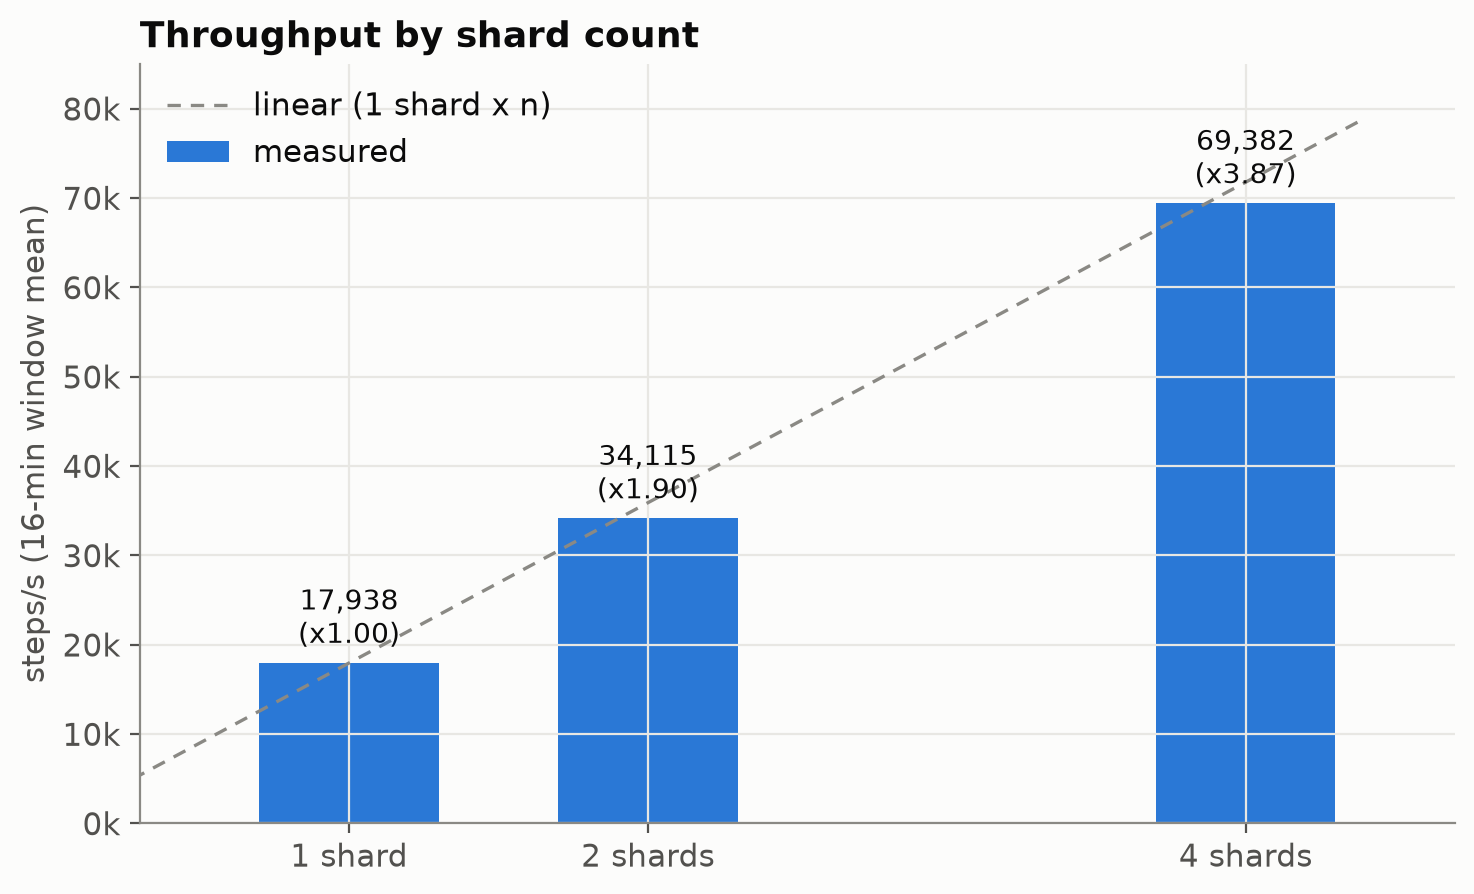
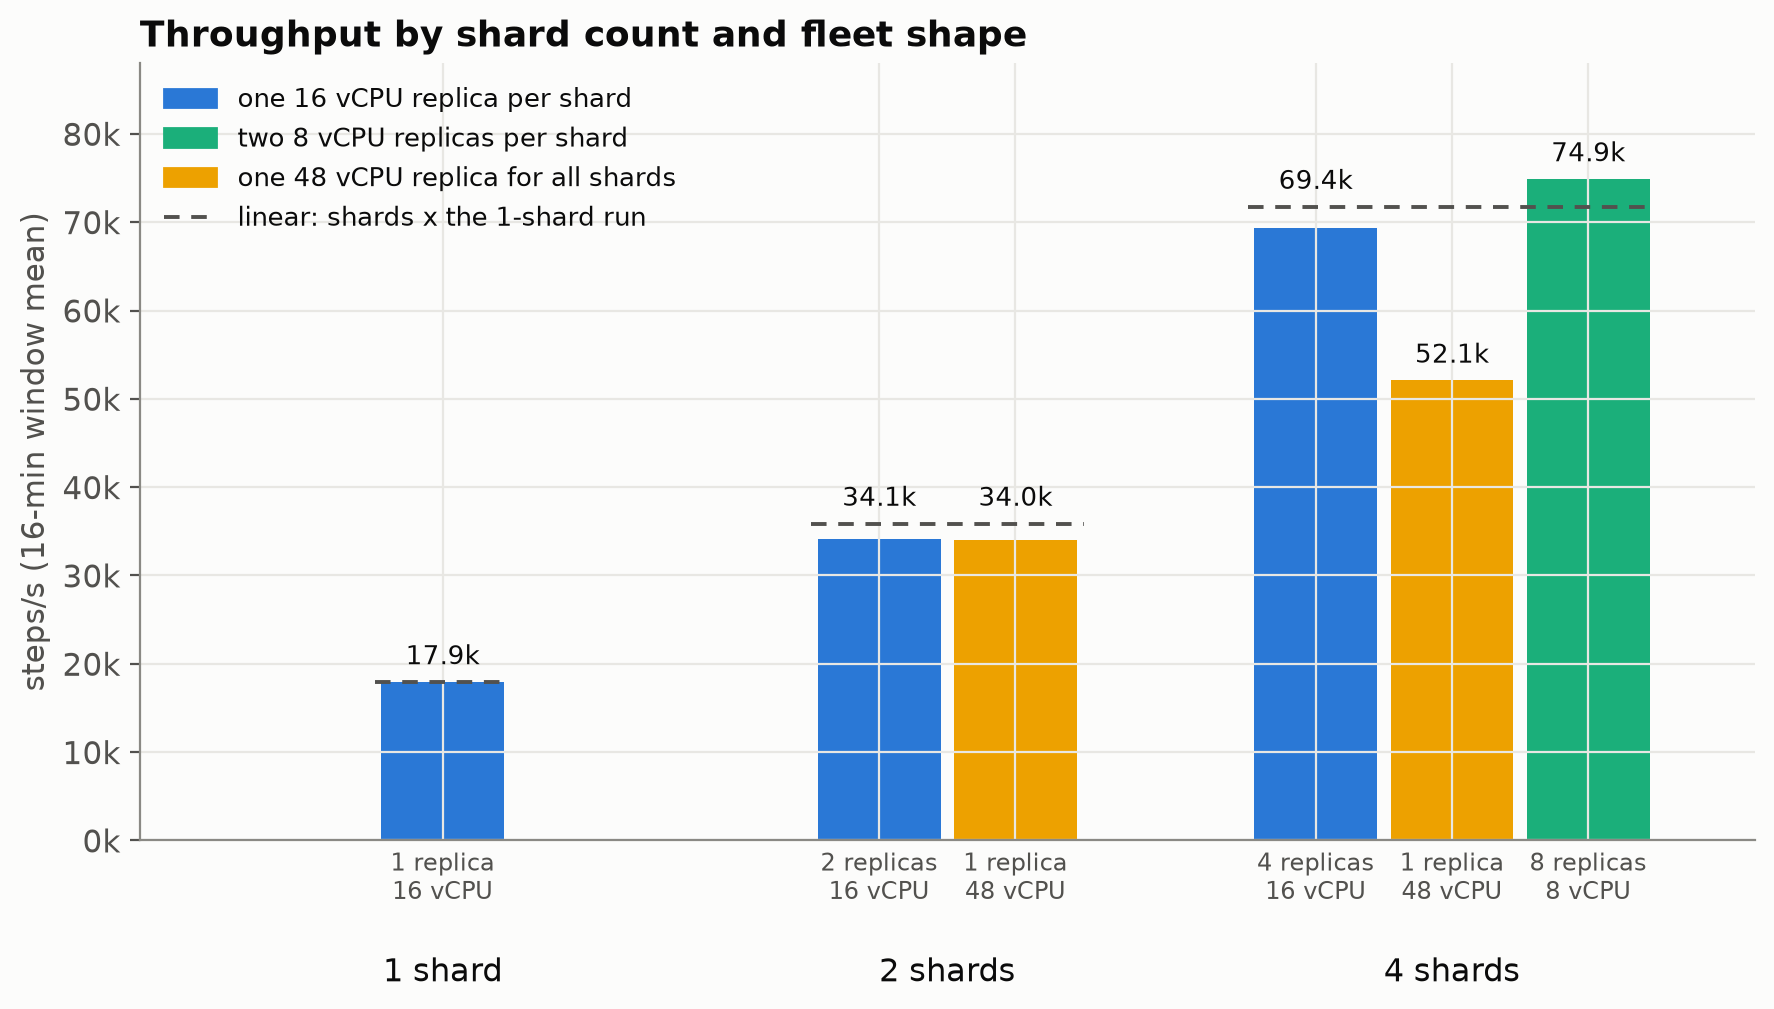
docs: b2 cloud benchmarks add database sizes, one engine for several shards, the recommended shape and engine host sizes
Results from the second session on the same build: 8 and 16 vCPU databases with two engines at half their
vCPU, one replica serving two and four shards, four shards with eight 8 vCPU replicas, and the engine's
CPU per step and garbage-collection share across 2 to 48 vCPU hosts. The shard chart labels every bar with
its replica count and host size.

Changed region(s): [[0.0312, 0.1208, 0.9674, 0.9966], [0.0, 0.0, 0.5929, 0.755], [0.0624, 0.906, 0.0936, 0.9362]]

diff --git a/docs/b2-benchmark-cloud.md b/docs/b2-benchmark-cloud.md
@@ -1,9 +1,10 @@
 # Cloud benchmarks
 
 > **Draft.** This page replaces [the current cloud benchmarks](benchmark-cloud.md) once its remaining runs
-> are in. Measured so far, on one engine build: one shard, shards and replicas. Still to run: database
-> sizes, the sustainable rate and its latency, workload shape and payload size, long tasks, database
-> volume, one engine on several shards, and failover. Each pending section says so.
+> are in. Measured so far, on one engine build: database sizes from 8 to 32 vCPU with their engine pairings,
+> shards, replicas, one engine for several shards, the recommended shape, and engine host sizes. Still to
+> run: workload shape and payload size, long tasks, database volume, and failover. Each pending section
+> says so.
 
 > **For operators** sizing a deployment. This page answers how much one database serves, what adding
 > shards and engine replicas does, and what the engine itself costs. Every number was measured, and the
@@ -13,19 +14,24 @@
 
 - **One 32 vCPU PostgreSQL database runs ~18,000 steps/s**, about 1.5 billion steps a day, at the
   engine's shipped defaults.
-- **Shards add throughput linearly.** Four shards ran 69,400 steps/s, 3.87 times one shard.
+- **Shards add throughput linearly.** Four shards ran 69,400–74,900 steps/s, 3.9–4.2 times one shard.
 - **Replicas add availability, not cost.** One, two or four replicas on a shard deliver the same
   throughput within 6%. Each shard is served by two of them, and any others stand by to take over.
-- **The engine is cheap.** One 16 vCPU engine host drives a saturated 32 vCPU database at about a
-  third of its CPU.
+- **Pair each database with two engines at half its vCPU.** 8 vCPU with 2 × 2 vCPU engines runs ~4,000
+  steps/s, 16 vCPU with 2 × 4 runs ~7,700, 32 vCPU with 2 × 8 runs ~18,700. The 32 vCPU pairing gives the
+  most throughput per dollar.
+- **The engine is cheap.** A shard's work takes about 5.5 engine cores. Two 8 vCPU engine hosts per
+  32 vCPU database serve it at about a third of their CPU each, and either can carry it alone.
+- **Prefer more, smaller engine hosts.** One engine serves up to two shards at full speed; past that, add
+  replicas. On a 48 vCPU host the engine spends about 40% more CPU per step than on 8 or 16 vCPU hosts.
 
 ## How these numbers were measured
 
 | | |
 |---|---|
 | Cloud | Google Cloud, one zone; engine-to-database round trip ~0.06 ms |
-| Database | Cloud SQL for PostgreSQL 16, **32 vCPU**, 128 GB RAM, 1 TB SSD, default `max_connections` (1,000) |
-| Engine host | c4a-standard-16 (16 vCPU Arm) per replica, one replica per host |
+| Database | Cloud SQL for PostgreSQL 16, **32 vCPU**, 128 GB RAM, 1 TB SSD, default `max_connections` (1,000), unless a section says otherwise |
+| Engine host | c4a-standard-16 (16 vCPU Arm), one replica per host, unless a section says otherwise |
 | Engine configuration | Shipped defaults: no pool size, no `MaxConnections`, no `Weight` |
 | Workload | `linear`: a 10-step chain of no-op tasks, no payload. It isolates the engine and database cost per step. |
 | Load | Saturated: flows are created as fast as the backlog allows, up to **2,000 in flight per shard** |
@@ -39,35 +45,74 @@
 nothing, so each brings its own write capacity.
 
 **Absolute numbers belong to the instance that produced them; ratios travel.** Cloud instances of the
-same spec differ by up to ~20%. Every comparison on this page ran against the same instances, one arm
-after another, on the same evening.
+same spec differ by up to ~20%. The runs below took two sessions, each on its own set of instances, and a
+comparison is read within one session unless a section says otherwise.
 
 ## One database
 
 On one 32 vCPU database, one engine replica ran **17,938 steps/s** over the 16-minute window: 1,794
-flows/s, about 1.5 billion steps a day.
+flows/s, about 1.5 billion steps a day. A second instance, already used for four other runs, ran 17,507.
 
-*Pending: three repeat runs for a range, and the rate the database sustains indefinitely with its
-latency.*
+## Database size, with its engine pairing
+
+![Database size and price-performance](b2-benchmark-cloud-tiers.png)
+
+Each database size paired with two engine replicas at half its vCPU, one shard, saturated:
+
+| Database | Engines | steps/s | Engine CPU per replica | Monthly cost | steps/s per $1,000 a month |
+|---|---|---|---|---|---|
+| 8 vCPU, 32 GB | 2 × 2 vCPU | 4,041 | 0.7 of 2 cores | ~$700 | ~5,800 |
+| 16 vCPU, 64 GB | 2 × 4 vCPU | 7,675 | 1.3 of 4 cores | ~$1,240 | ~6,200 |
+| 32 vCPU, 128 GB | 2 × 8 vCPU | 18,720 | 2.3–3.0 of 8 cores | ~$2,310 | ~8,100 |
+
+The 32 vCPU row is the per-shard rate of the four-shard, eight-replica run below. Monthly cost is the
+on-demand list price in one US region: the database (without high availability), its 1 TB SSD, and both
+engine hosts. Every database ran on a 1 TB disk so storage IOPS would not limit it; a smaller disk costs less
+and can bind first.
+
+- **Throughput roughly doubles with each doubling of the database**, and more than doubles from 16 to 32
+  vCPU, which makes 32 vCPU the best throughput per dollar of the three.
+- **The pairing holds at every size.** Each engine runs at about a third of its CPU, so either replica can
+  carry its shard alone if the other fails.
+- **The engine's connection budget is the same at every size.** Cloud SQL sets `max_connections` to 600, 800
+  and 1,000 for these sizes, and the engine opens the same 250 connections per shard on each.
+
+This page does not cover databases larger than 32 vCPU.
 
 ## Shards: throughput adds up
 
-![Throughput by shard count](b2-benchmark-cloud-shards.png)
+![Throughput by shard count and fleet shape](b2-benchmark-cloud-shards.png)
 
-Each shard is its own 32 vCPU database, and each run has one engine replica per shard.
+Each shard is its own 32 vCPU database.
 
-| Shards | Replicas | steps/s | vs 1 shard | Per shard |
+| Shards | Replicas | Engine hosts | steps/s | vs 1 shard | Per shard |
+|---|---|---|---|---|---|
+| 1 | 1 | 16 vCPU | 17,938 | ×1.00 | 17,938 |
+| 2 | 2 | 16 vCPU | 34,115 | ×1.90 | 17,058 |
+| 4 | 4 | 16 vCPU | 69,382 | **×3.87** | 17,346 |
+| 4 | 8 | 8 vCPU | 74,879 | **×4.17** | 18,720 |
+
+- **Every shard carries what one shard carries alone.** At four shards, each held 17,300–18,700 steps/s,
+  within the spread of a single shard. The two four-shard runs used different instances, so the 8%
+  between them is instance variance, not the fleet's shape.
+- **New flows spread evenly.** Each shard received an even share of new flows (1,680–1,790 flows/s per
+  shard with four replicas).
+
+## One engine for several shards
+
+The same shard counts, served by a single replica:
+
+| Shards | Engine host | steps/s | Engine CPU | Databases |
 |---|---|---|---|---|
-| 1 | 1 | 17,938 | ×1.00 | 17,938 |
-| 2 | 2 | 34,115 | ×1.90 | 17,058 |
-| 4 | 4 | 69,382 | **×3.87** | 17,346 |
+| 2 | 16 vCPU | 32,564 | 10.3 of 16 cores | saturated |
+| 2 | 48 vCPU | 34,049 | 14.8 of 48 cores | saturated |
+| 4 | 48 vCPU | **52,079 (×2.90)** | 25.7 of 48 cores | about half loaded |
 
-- **Every shard carries nearly what one shard carries alone.** At four shards, each held ~17,300
-  steps/s, 3% below the single-shard run.
-- **New flows spread evenly.** Each shard received an even share of new flows (1,680–1,790 flows/s
-  per shard at four shards).
-
-*Pending: the same ladder with a single engine replica serving every shard.*
+- **One engine serves two shards at full speed**, even on a 16 vCPU host, with a third of its CPU to
+  spare.
+- **At four shards one engine is the limit.** It delivered 52,079 steps/s while the databases ran at
+  about half their saturated load and the host had half its CPU free. Four replicas on the same four
+  shards ran 69,382. Beyond two shards per replica, add replicas rather than a bigger host.
 
 ## Replicas: availability without a throughput cost
 
@@ -85,31 +130,51 @@ One 32 vCPU shard, served by one, two and four replicas on separate hosts:
   throughput, within 6% of one replica. That is inside the spread between runs on one instance.
 - **Each shard has two dispatchers.** As soon as there are two replicas, two of them split each
   shard's work evenly (to within 0.1% minute by minute). Other replicas create flows and answer reads,
-  but run none of that shard's steps. They hold two connections each, and step in if a dispatcher stops.
+  but run none of that shard's steps. They hold a few connections each, and step in if a dispatcher stops.
   [Deployment](deployment.md) describes how the fleet chooses dispatchers and what happens when one fails.
 - **Across shards, every replica gets work.** Different shards pick different dispatchers. At four
-  shards and four replicas, every replica dispatched exactly two shards.
+  shards and four replicas, every replica dispatched exactly two shards; at four shards and eight, every
+  replica dispatched exactly one.
 
-**Sizing replicas.** A shard's work takes about 5.5 engine cores at full speed, split between its two
-dispatchers. With `S` shards:
+## The recommended shape
 
-| Replicas | Shards each replica dispatches | Engine host |
-|---|---|---|
-| `S` | 2 | 16 vCPU (measured: 5.3–5.6 cores used) |
-| `2S` | 1 | 8 vCPU (*pending measurement*) |
+**Two 8 vCPU engine replicas for each 32 vCPU database.** With `S` shards, that is `2S` replicas, and each
+replica dispatches exactly one shard.
+
+Measured at four shards and eight c4a-standard-8 replicas: **74,879 steps/s**. Each replica carried
+8,400–9,800 steps/s on 2.3–3.0 of its 8 cores. If one replica of a shard fails, the other takes over its
+share: about 5.5 cores, which still fits an 8 vCPU host.
+
+| Replicas | Shards each replica dispatches | Engine host | Engine CPU used |
+|---|---|---|---|
+| `2S` | 1 | 8 vCPU | 2.3–3.0 cores |
+| `S` | 2 | 16 vCPU | 5.3–5.6 cores |
 
 Choose `S` or `2S` replicas so every replica carries the same share. Replicas beyond `2S` add standby
 capacity and capacity for your own traffic, not workflow throughput.
 
+The same rule scales down: two engines at half the database's vCPU (see
+[Database size](#database-size-with-its-engine-pairing)).
+
 ## The engine is cheap
 
-| | Engine CPU | steps/s per engine core |
-|---|---|---|
-| 1 replica on 1 shard | 5.4 of 16 cores (34%) | ~3,300 |
-| 4 replicas on 4 shards | 5.3–5.6 of 16 cores each | ~3,200 |
+![Engine host size](b2-benchmark-cloud-engine-hosts.png)
 
-The database is the limit in every run. The engine host has two-thirds of its CPU to spare. That
-headroom is what makes it possible to run one engine for several shards, or a smaller host per replica.
+| Engine host | Runs | steps/s per engine core | Garbage collection, share of engine CPU |
+|---|---|---|---|
+| 2 vCPU | 2 replicas on an 8 vCPU database | 2,850–2,950 | 10–11% |
+| 4 vCPU | 2 replicas on a 16 vCPU database | 2,950–3,000 | 10–11% |
+| 8 vCPU | 8 replicas on 4 shards | 3,250–3,600 | 11–15% |
+| 16 vCPU | 1 or 2 shards per replica | 3,150–3,300 | 11–12% |
+| 48 vCPU | 1 replica on 2 and 4 shards | 2,000–2,300 | 19–20% |
+
+- **The database is the limit at the sizes we recommend.** An engine host from 2 to 16 vCPU runs at about a
+  third of its CPU while its database is saturated.
+- **A large host costs more per step.** On a 48 vCPU host the engine's garbage collection takes about
+  twice the share it takes on 2 to 16 vCPU, at the same load: one replica serving two shards spent 14.8
+  cores on a 48 vCPU host and 10.3 on a 16 vCPU host for the same throughput.
+
+These figures are the engine's own cost. Your tasks run on the same hosts and need their own headroom.
 
 ## Minute by minute
 
@@ -117,29 +182,25 @@ headroom is what makes it possible to run one engine for several shards, or a sm
 
 *The vertical axis starts at 14,000 steps/s.*
 
-Every run starts near 19,000 steps/s per shard and settles **8–10% lower** within its window. The
-settling is the same per shard with one, two or four shards and with one, two or four replicas, so it
-belongs to the database, not to the engine or the fleet's shape. Plan capacity on the settled rate.
+Every run starts near 19,000 steps/s per shard and settles **8–13% lower** within its window. The
+settling is the same per shard with one, two or four shards and with one, two, four or eight replicas,
+so it belongs to the database, not to the engine or the fleet's shape. Plan capacity on the settled rate.
 
 *Pending: the database-volume runs, which follow the rate over hours as the database grows.*
 
 ## Latency at saturation
 
 Saturated runs hold the backlog at its cap of 2,000 flows per shard, so flow latency is mostly time
-spent waiting in that backlog. A 10-step flow completed in a median of **~1.2 s**, with a p99 of
-**1.8–2.3 s**, in every run. That reflects the backlog chosen for the test, not the latency of an
-unsaturated deployment.
-
-*Pending: latency at the sustainable rate, which is the figure to plan with.*
+spent waiting in that backlog. On 32 vCPU databases a 10-step flow completed in a median of **~1.2 s**,
+with a p99 of **1.8–2.3 s**, in every run. A smaller database works through the same backlog more slowly:
+the p99 was ~3.5 s at 16 vCPU and ~8.2 s at 8 vCPU. That reflects the backlog chosen for the test, not the
+latency of an unsaturated deployment.
 
 ## Pending sections
 
-- **Database size.** Throughput and price-performance from 4 to 64 vCPU at the default connection
-  budget.
 - **Workload shape and payload.** Linear, fan-out and scatter workflows; payloads from 0 to 1 MB per
   task; stored and write-ahead-log bytes per task byte.
 - **Long tasks.** Tasks of 0, 1 and 8 seconds, and 10,000 flows each waiting on a 60-second task.
 - **Database volume.** Throughput as the database grows to hundreds of millions of rows and hundreds
   of GB.
 - **Failover.** A fixed load while dispatchers are killed one at a time.
-- **The recommended shape.** Four shards with eight replicas, one dispatcher role each.
